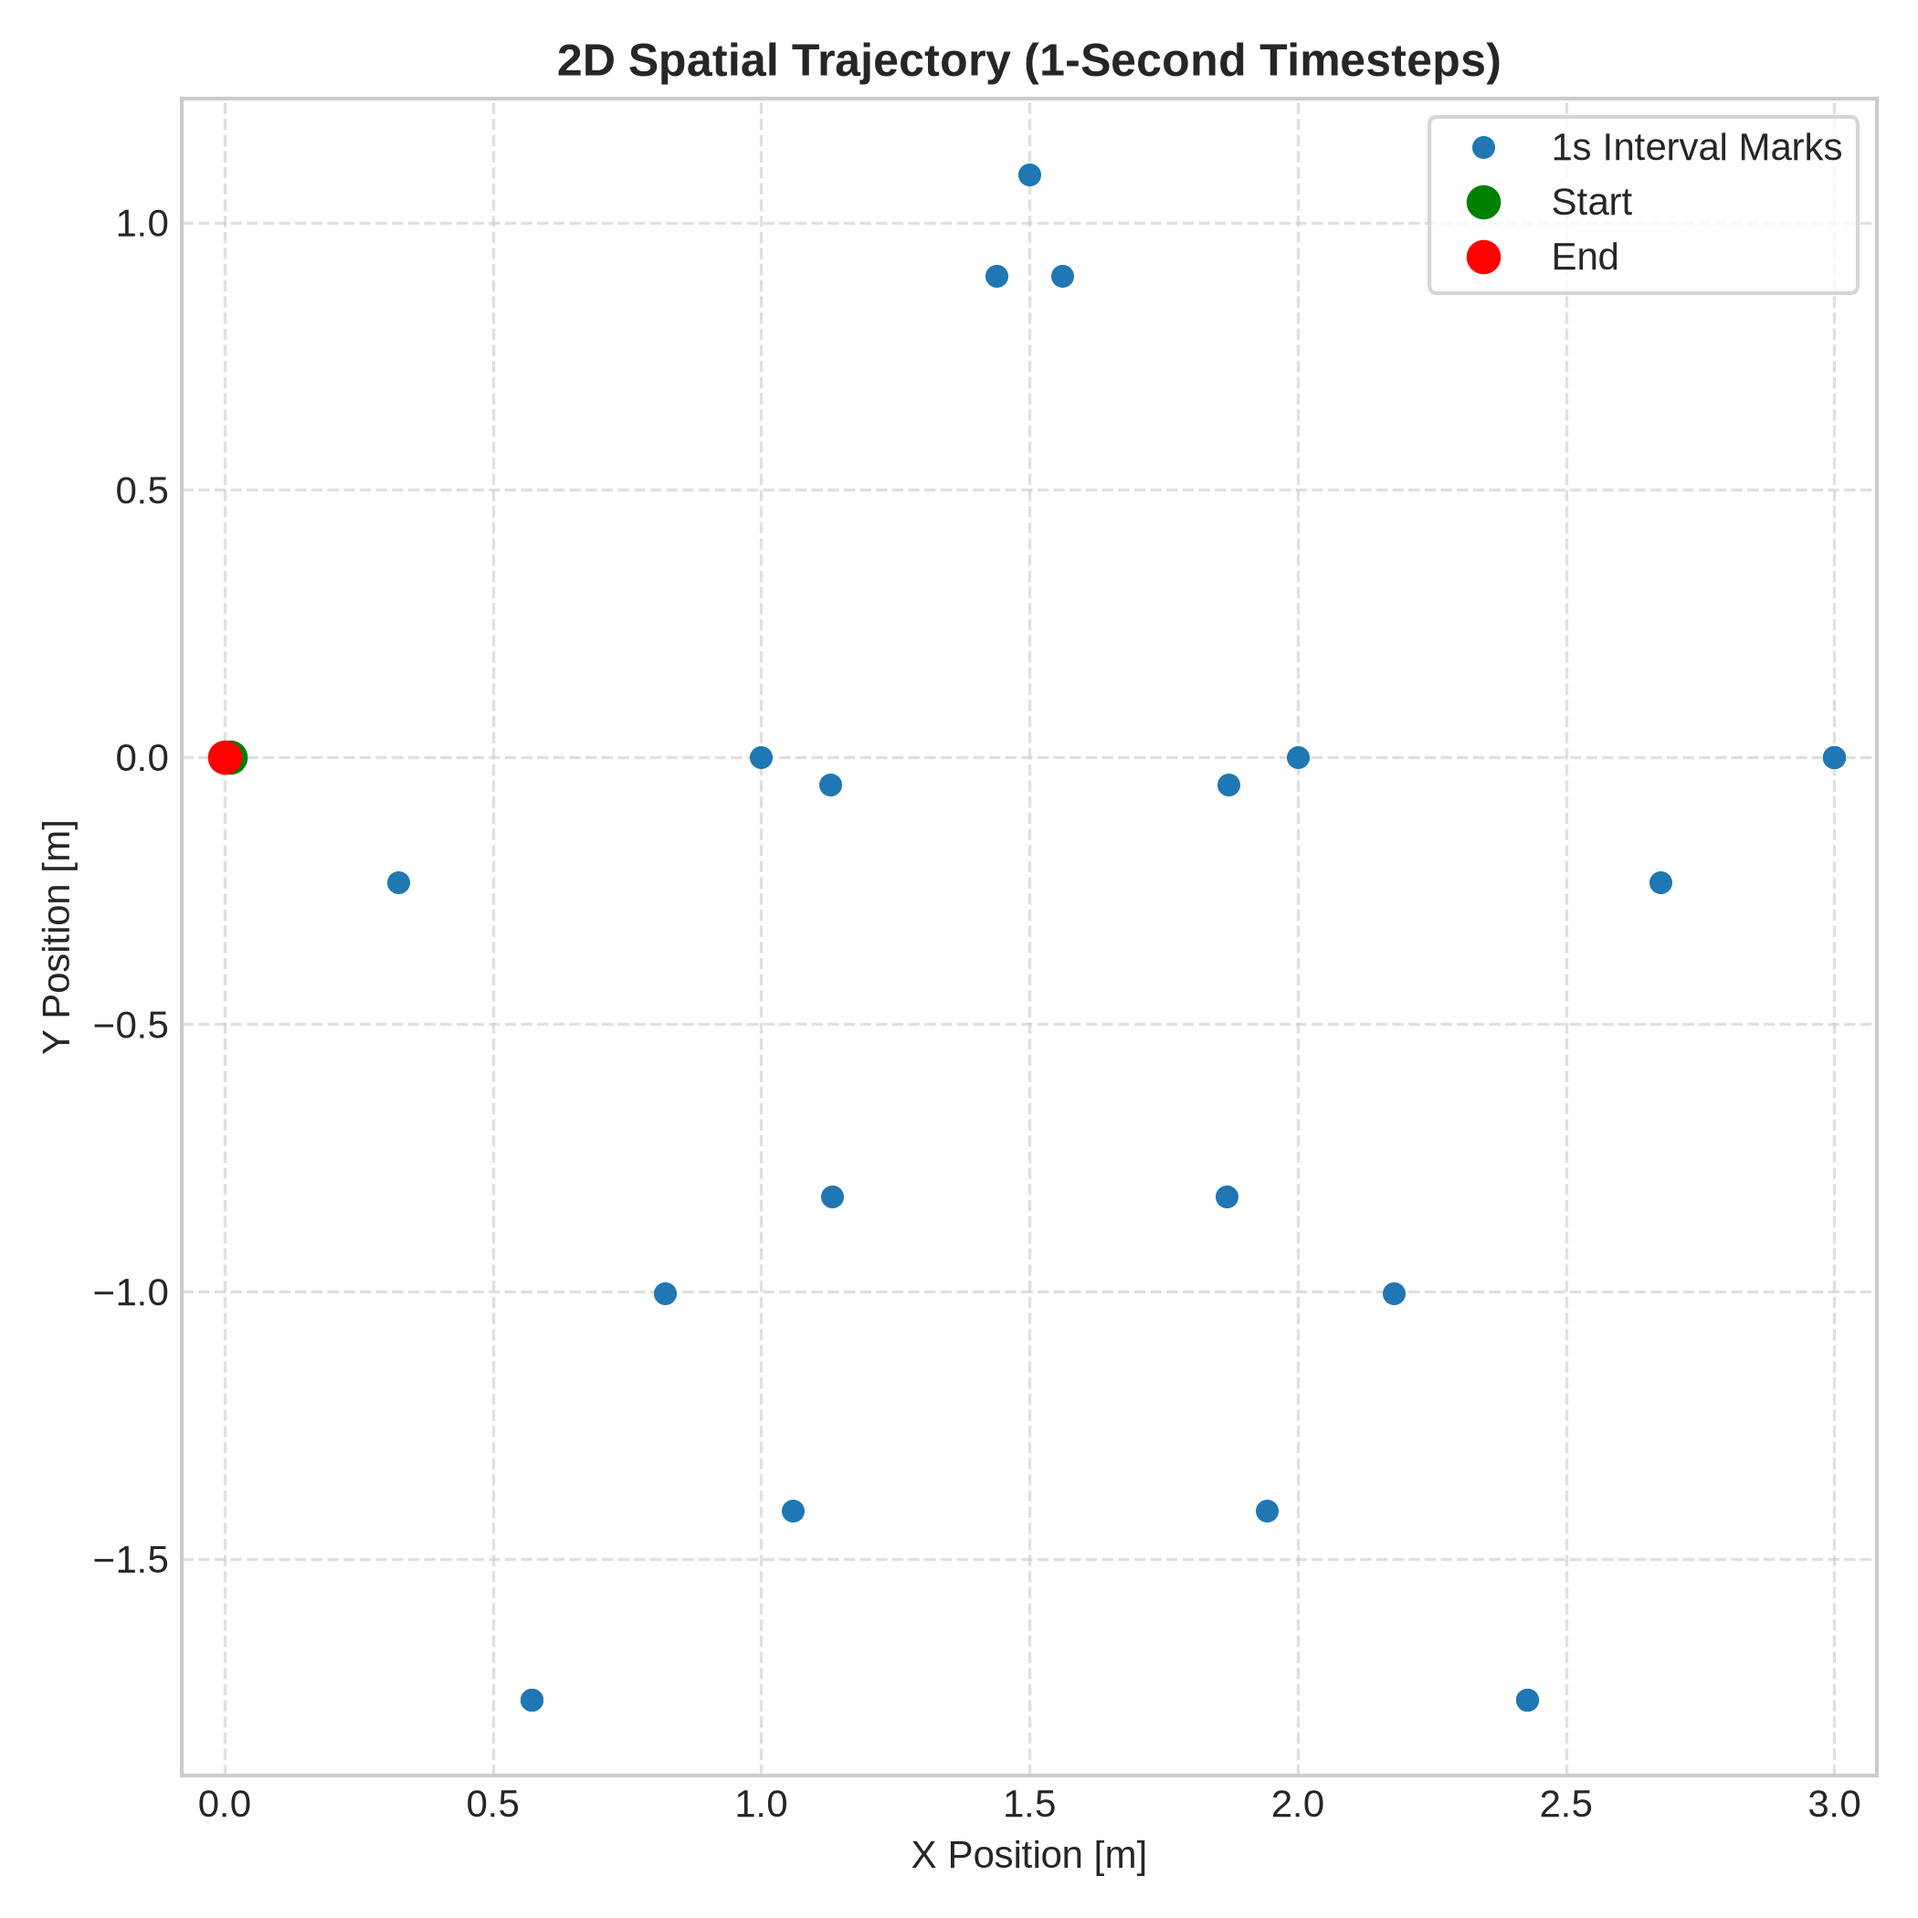
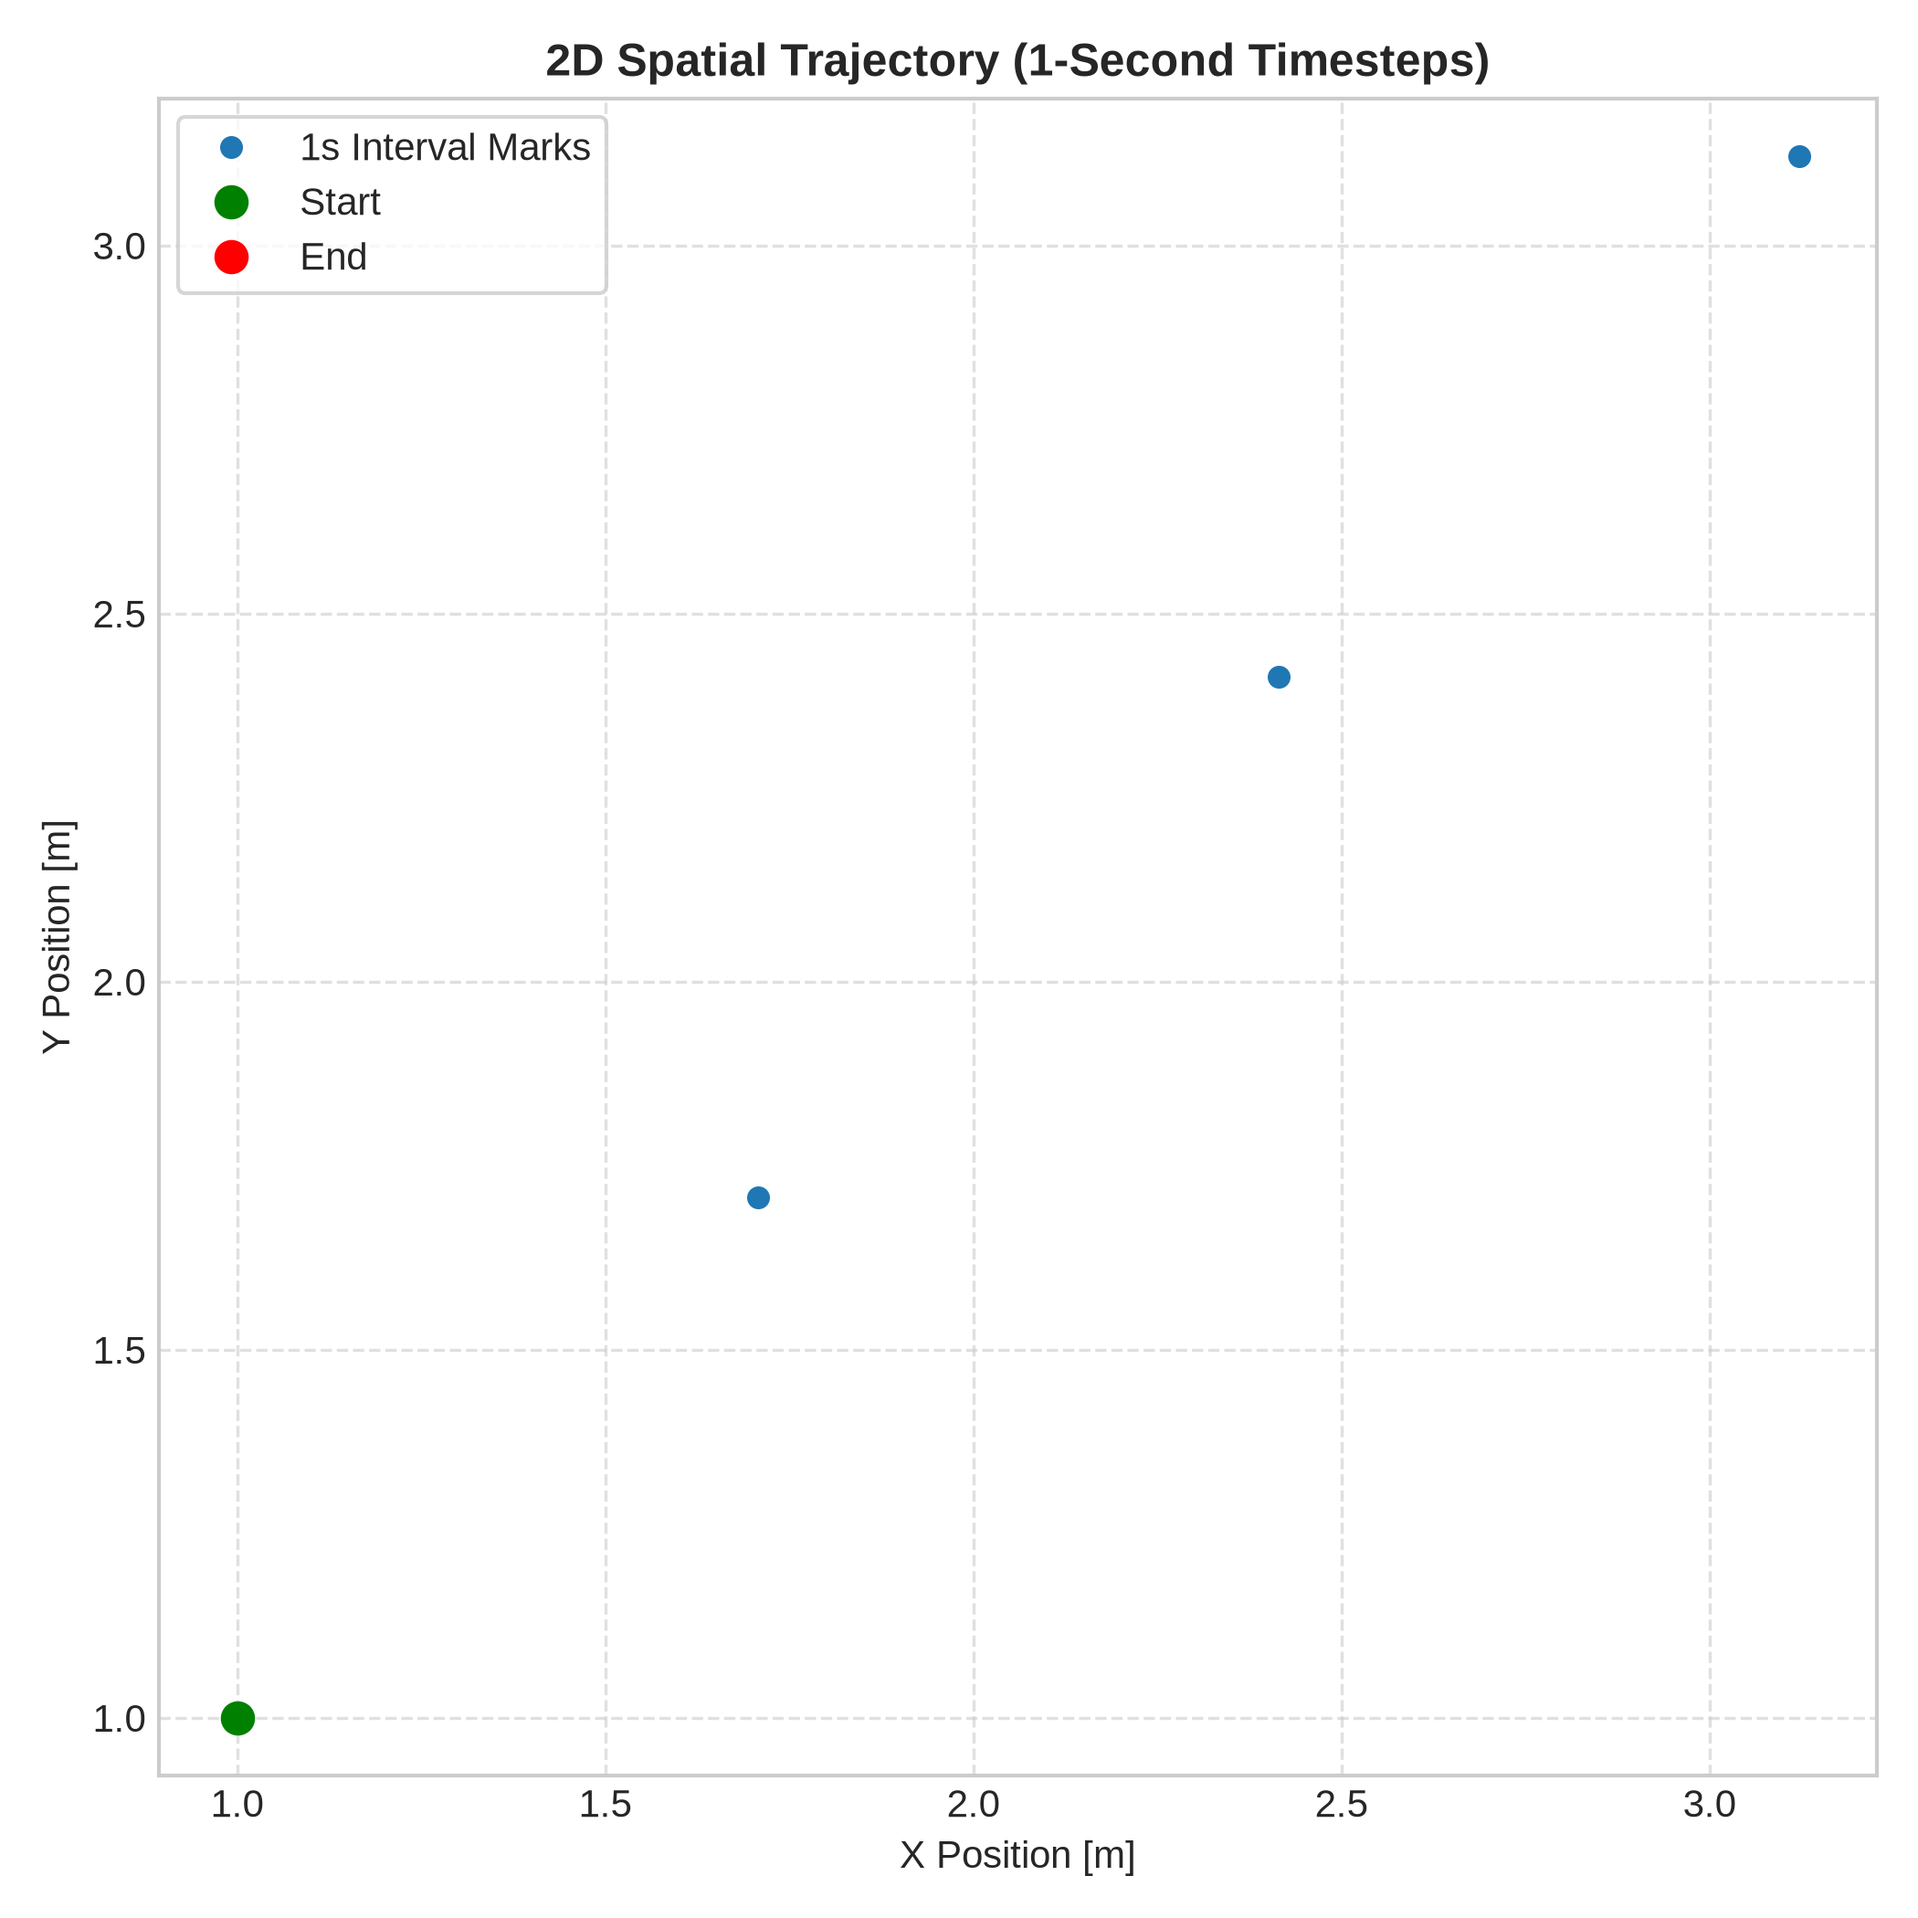
Update simulator termination logic and relevant testing.

diff --git a/unicycle_robot_sim_2d/include/simulator/Simulator.h b/unicycle_robot_sim_2d/include/simulator/Simulator.h
@@ -6,6 +6,16 @@
 #include "World.h"
 
 /**
+ * @brief Represents the current operational state or termination reason of the simulation.
+ */
+enum class SimulationStatus {
+    Running,           // Simulation is progressing normally
+    GoalReached,       // Robot successfully reached the target goal region
+    ObstacleCollision, // Robot collided with an environmental obstacle
+    OutOfBounds        // Robot moved outside the valid map boundaries
+};
+
+/**
  * @brief Manages simulation time, advances a Robot through discrete kinematic updates,
  *        logs telemetry data, and evaluates environmental safety checks.
  */
@@ -32,8 +42,9 @@ class Simulator {
         /**
          * @brief Advances the simulation continuously for a specified time duration.
          * 
-         * Executes discrete steps of timeStep size and performs a final partial step 
-         * if the remaining duration is less than timeStep.
+         * Executes discrete integration steps, logging state at each step and checking
+         * environmental status. Exits gracefully if a terminal state (goal, obstacle, 
+         * out-of-bounds) is encountered or when duration completes.
          * 
          * @param duration Total time span to simulate in seconds (ignored if <= 0.0).
          */
@@ -45,13 +56,20 @@ class Simulator {
          */
         double getCurrentTime() const { return currentTime_; }
 
+        /**
+         * @brief Gets the current operational or termination status of the simulation.
+         * @return Active SimulationStatus enum value.
+         */
+        SimulationStatus getStatus() const { return status_; }
+
     private:
 
-        Robot& robot_;                      // Reference to the managed robot model.
-        World& world_;                      // Reference to the simulation world (obstacles, boundaries, etc.).
-        SimulatorDataLogger logger_;        // Logger instance for recording simulation data.
-        double timeStep_{ 0.01 };           // Fixed integration step size dt in seconds.
-        double currentTime_{ 0.0 };         // Accumulated simulation clock time in seconds.
+        Robot& robot_;                                         // Reference to the managed robot model.
+        World& world_;                                         // Reference to the simulation world (obstacles, boundaries, etc.).
+        SimulatorDataLogger logger_;                           // Logger instance for recording simulation data.
+        double timeStep_{ 0.01 };                              // Fixed integration step size dt in seconds.
+        double currentTime_{ 0.0 };                            // Accumulated simulation clock time in seconds.
+        SimulationStatus status_{ SimulationStatus::Running }; // Active simulation state tracker
 
         /**
          * @brief Advances the simulation by the default stored integration time step (timeStep_).
@@ -67,11 +85,10 @@ class Simulator {
         void step(double timeStep);
 
         /**
-         * @brief Validates current robot pose against world boundaries, obstacles, and goal states.
-         * 
-         * @throws std::runtime_error If robot exceeds boundaries, hits an obstacle, or reaches the goal.
+         * @brief Evaluates current robot pose against world boundaries, obstacles, and goals.
+         * @return The resulting SimulationStatus based on current pose overlap.
          */
-        void checkCollision() const;
+        SimulationStatus checkCollision() const;
 
         /**
          * @brief Prepares the log file path and ensures the output directory exists.   

diff --git a/unicycle_robot_sim_2d/src/simulator/Simulator.cpp b/unicycle_robot_sim_2d/src/simulator/Simulator.cpp
@@ -12,18 +12,20 @@ Simulator::Simulator(Robot& robot, World& world, double timeStep) :
     world_{ world },
     logger_{ prepareLogPath() },
     timeStep_{ timeStep },
-    currentTime_{ 0.0 }
+    currentTime_{ 0.0 },
+    status_{ SimulationStatus::Running }
 {
     if (timeStep_ <= 0.0) {
         throw std::invalid_argument("timeStep must be a positive value. Provided: " + std::to_string(timeStep));
     }
 
-    // Initial collision check to ensure the robot starts in a valid state.
-    checkCollision();
+    // Evaluate initial spatial condition without throwing an exception
+    status_ = checkCollision();
 }
 
 void Simulator::runFor(double duration) {
-    if (duration <= 0.0) {
+    // Immediate return if duration is invalid or simulation already hit a terminal state
+    if (duration <= 0.0 || status_ != SimulationStatus::Running) {
         return;
     }
 
@@ -32,13 +34,16 @@ void Simulator::runFor(double duration) {
         step(timeStep_);
         remainingTime -= timeStep_;
 
-        checkCollision();
+        status_ = checkCollision();
+        if (status_ != SimulationStatus::Running) {
+            break;
+        }
     }
 
-    if (remainingTime > 0) {
+    if (remainingTime > 0 && status_ == SimulationStatus::Running) {
         step(remainingTime);
 
-        checkCollision();
+        status_ = checkCollision();
     }
 }
 
@@ -62,20 +67,22 @@ void Simulator::step(double timeStep) {
     logger_.logData(robot_.getPose(), robot_.getVelocityCommand(), currentTime_);
 }
 
-void Simulator::checkCollision() const {
+SimulationStatus Simulator::checkCollision() const {
     const Pose& pose = robot_.getPose();
 
     if (!world_.isWithinBounds(pose.x, pose.y)) {
-        throw std::runtime_error("Robot is out of bounds at position (" + std::to_string(pose.x) + ", " + std::to_string(pose.y) + ").");
+        return SimulationStatus::OutOfBounds;
     }
 
     if (world_.isCollisionWithObstacle(pose.x, pose.y)) {
-        throw std::runtime_error("Robot collided with an obstacle at position (" + std::to_string(pose.x) + ", " + std::to_string(pose.y) + ").");
+        return SimulationStatus::ObstacleCollision;
     }
 
     if (world_.isCollisionWithGoal(pose.x, pose.y)) {
-        throw std::runtime_error("Robot reached the goal at position (" + std::to_string(pose.x) + ", " + std::to_string(pose.y) + ").");
+        return SimulationStatus::GoalReached;
     }
+
+    return SimulationStatus::Running;
 }
 
 std::string Simulator::prepareLogPath() const {

diff --git a/unicycle_robot_sim_2d/tests/TestSimulator.cpp b/unicycle_robot_sim_2d/tests/TestSimulator.cpp
@@ -230,12 +230,12 @@ void testRobotCollisionWithObstacle() {
         .angularVelocity = 0.0
     });
 
-    try {
-        simulator.runFor(3.0);
-        assert_msg(false, "Expected collision with obstacle not detected.");
-    } catch (const std::runtime_error& e) {
-        std::cout << "[PASS] testRobotCollisionWithObstacle - Caught expected exception: " << e.what() << "\n";
-    }
+    simulator.runFor(3.0);
+    assert_msg(simulator.getStatus() == SimulationStatus::ObstacleCollision, 
+                "Expected obstacle collision status. Actual: " << static_cast<int>(simulator.getStatus())
+                << ". Robot Pose: " << to_string(robot.getPose())
+                << ". Obstacle Position: (7.0, 5.0) with radius 1.0");
+    std::cout << "[PASS] testRobotCollisionWithObstacle\n";
 }
 
 void testRobotCollisionWithGoal() {
@@ -250,12 +250,12 @@ void testRobotCollisionWithGoal() {
         .angularVelocity = 0.0
     });
 
-    try {
-        simulator.runFor(3.0);
-        assert_msg(false, "Expected collision with goal not detected.");
-    } catch (const std::runtime_error& e) {
-        std::cout << "[PASS] testRobotCollisionWithGoal - Caught expected exception: " << e.what() << "\n";
-    }
+    simulator.runFor(3.0);
+    assert_msg(simulator.getStatus() == SimulationStatus::GoalReached, 
+                "Expected goal reached status. Actual: " << static_cast<int>(simulator.getStatus())
+                << ". Robot Pose: " << to_string(robot.getPose())
+                << ". Goal Position: (7.0, 5.0) with radius 1.0");
+    std::cout << "[PASS] testRobotCollisionWithGoal\n";
 }
 
 void testRobotOutOfBounds() {
@@ -270,12 +270,12 @@ void testRobotOutOfBounds() {
         .angularVelocity = 0.0
     });
 
-    try {
-        simulator.runFor(2.0);
-        assert_msg(false, "Expected out-of-bounds error not detected.");
-    } catch (const std::runtime_error& e) {
-        std::cout << "[PASS] testRobotOutOfBounds - Caught expected exception: " << e.what() << "\n";
-    }
+    simulator.runFor(2.0);
+    assert_msg(simulator.getStatus() == SimulationStatus::OutOfBounds,
+                "Expected out of bounds status. Actual: " << static_cast<int>(simulator.getStatus())
+                << ". Robot Pose: " << to_string(robot.getPose())
+                << ". World Bounds: (0, 0) to (10, 10)");
+    std::cout << "[PASS] testRobotOutOfBounds\n";
 }
 
 int main() {

diff --git a/unicycle_robot_sim_2d/src/Main.cpp b/unicycle_robot_sim_2d/src/Main.cpp
@@ -3,26 +3,41 @@
 #include <simulator/Simulator.h>
 
 #include <numbers>
+#include <iostream>
 
 int main() {
-    Robot robot({0.0, 0.0, 0.0});
-    World  world(10, 10, {Obstacle{2.5, 2.5, 0.5}}, Obstacle{5.0, 5.0, 0.5});
+    Robot robot({1.0, 1.0, 0.0});
+    World  world(10, 10, {}, Obstacle{5.0, 5.0, 1.0});
 
     Simulator simulator = Simulator(robot, world, 0.01);
 
-    for (int i{ 0 }; i < 4; ++i) {
+    while (simulator.getStatus() == SimulationStatus::Running) {
+        robot.setVelocityCommand({
+            .linearVelocity = 0.0,
+            .angularVelocity = std::numbers::pi / 4.0
+        });
+
+        simulator.runFor(1.0);
+
         robot.setVelocityCommand({
             .linearVelocity = 1.0,
             .angularVelocity = 0.0
         });
 
-        simulator.runFor(10);
+        simulator.runFor(5);
+    }
 
-        robot.setVelocityCommand({
-            .linearVelocity = 0.0,
-            .angularVelocity = std::numbers::pi / 2
-        });
-
-        simulator.runFor(1);
+    switch(simulator.getStatus()) {
+        case SimulationStatus::GoalReached:
+            std::cout << "Robot reached the goal!\n";
+            break;
+        case SimulationStatus::ObstacleCollision:
+            std::cout << "Robot collided with an obstacle!\n";
+            break;
+        case SimulationStatus::OutOfBounds:
+            std::cout << "Robot went out of bounds!\n";
+            break;
+        default:
+            std::cout << "Simulation ended with unknown status.\n";
     }
 }
